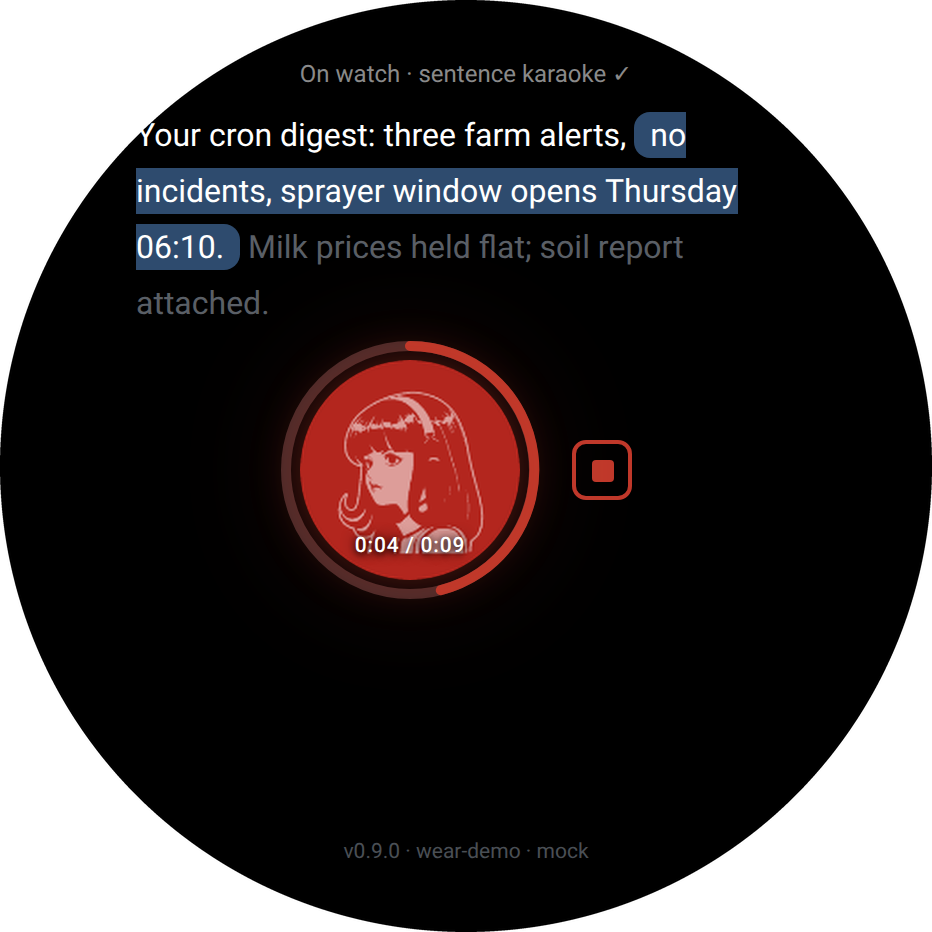
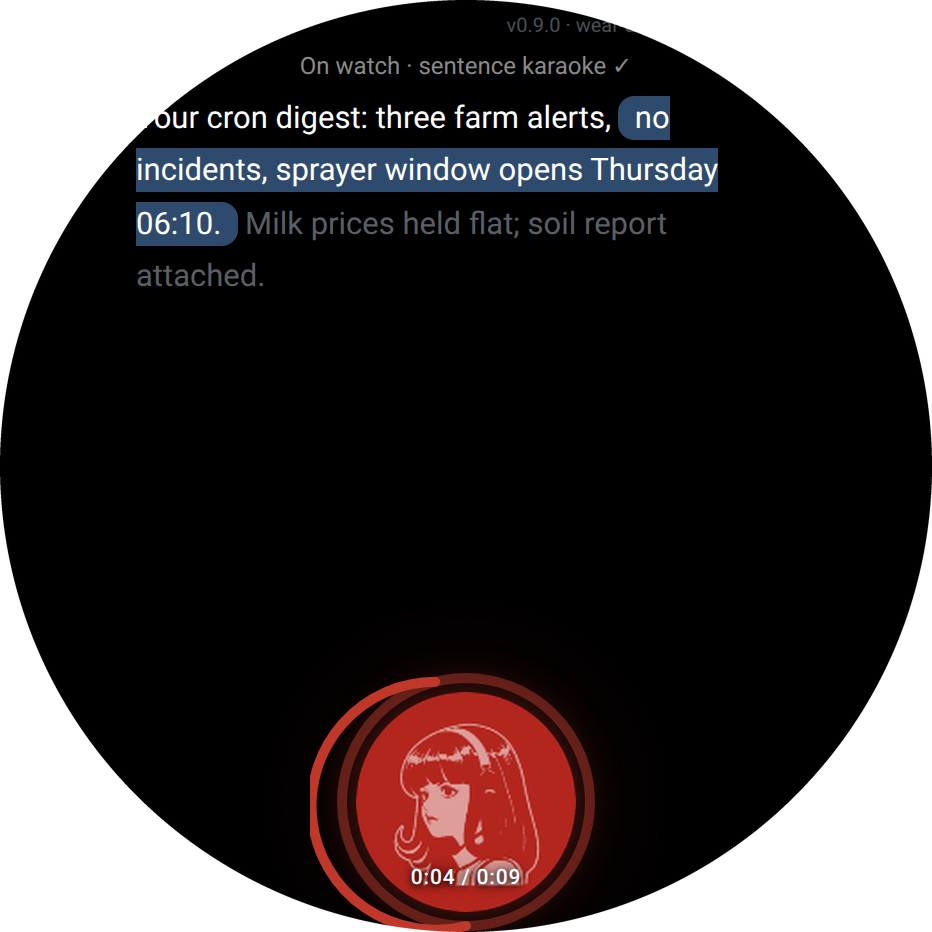
docs(mocks): D v4 — orb at 6 o'clock (its PTT home), ring fills clockwise from six in the orb's own bright red, stop button deleted (tap-orb stops, mute heritage)

diff --git a/docs/mocks/voiceout/src/D-karaoke.html b/docs/mocks/voiceout/src/D-karaoke.html
@@ -1,25 +1,23 @@
 <!doctype html><html><head><meta charset=utf-8><style>
 *{margin:0;box-sizing:border-box}
 html,body{width:466px;height:466px;background:#000;font-family:'Roboto','Google Sans',system-ui,sans-serif;color:#fff;overflow:hidden}
-.screen{position:relative;width:466px;height:466px;padding:28px 68px 24px}
-.status{color:#8A8A8A;font-size:12px;text-align:center;margin-top:2px}
-.kara{font-size:16px;line-height:1.75;margin-top:10px}
+.screen{position:relative;width:466px;height:466px;padding:26px 68px 0}
+.status{color:#8A8A8A;font-size:12px;text-align:center}
+.bug{position:absolute;top:8px;right:96px;font-size:10px;color:#4A4F55}
+.kara{font-size:15.5px;line-height:1.7;margin-top:6px;margin-bottom:120px}
 .kara .now{background:#2E4B6E;color:#fff;padding:2px 8px;border-radius:8px}
 .kara .said{color:#fff}.kara .next{color:#5A5F66}
-.player{display:flex;align-items:center;justify-content:center;gap:26px;margin-top:14px}
+.player{position:absolute;bottom:10px;left:0;right:0;display:flex;justify-content:center}
 .orbwrap{position:relative;width:110px;height:110px}
 .orbwrap img{width:110px;height:110px;border-radius:50%;display:block;filter:drop-shadow(0 0 12px rgba(192,57,43,.38)) drop-shadow(0 0 30px rgba(192,57,43,.16))}
 .time{position:absolute;left:0;right:0;bottom:11px;text-align:center;font-size:10.5px;font-weight:500;color:#fff;text-shadow:0 1px 3px rgba(0,0,0,.95),0 0 7px rgba(40,6,4,.9);letter-spacing:.4px}
-.stop{width:30px;height:30px;border:2px solid #C0392B;border-radius:7px;display:flex;align-items:center;justify-content:center}
-.stop i{width:11px;height:11px;background:#C0392B;border-radius:2px}
-.bug{position:absolute;bottom:34px;width:466px;text-align:center;font-size:10.5px;color:#4A4F55;left:0}
 </style></head><body><div class=screen>
+<div class=bug>v0.9.0 · wear-demo · mock</div>
 <div class=status>On watch · sentence karaoke ✓</div>
 <div class=kara><span class=said>Your cron digest: three farm alerts,</span>
 <span class=now>no incidents, sprayer window opens Thursday 06:10.</span>
 <span class=next>Milk prices held flat; soil report attached.</span></div>
 <div class=player>
-  <div class=orbwrap><svg width="156" height="156" viewBox="0 0 156 156" style="position:absolute;left:-23px;top:-23px"><circle cx="78" cy="78" r="62" fill="none" stroke="rgba(224,138,138,0.30)" stroke-width="5"/><path d="M78.0,16.0 A62,62 0 0,1 93.4,138.1" fill="none" stroke="#C0392B" stroke-width="5" stroke-linecap="round"/></svg><img src="orb-real.png"><div class=time>0:04 / 0:09</div></div>
-  <div class=stop><i></i></div>
+  <div class=orbwrap><svg width="156" height="156" viewBox="0 0 156 156" style="position:absolute;left:-23px;top:-23px"><circle cx="78" cy="78" r="62" fill="none" stroke="rgba(96,32,26,0.9)" stroke-width="5"/><path d="M78.0,140.0 A62,62 0 1,1 62.6,17.9" fill="none" stroke="#C0392B" stroke-width="5" stroke-linecap="round"/></svg><img src="orb-real.png"><div class=time>0:04 / 0:09</div></div>
 </div>
-<div class=bug>v0.9.0 · wear-demo · mock</div></div></body></html>
+</div></body></html>
